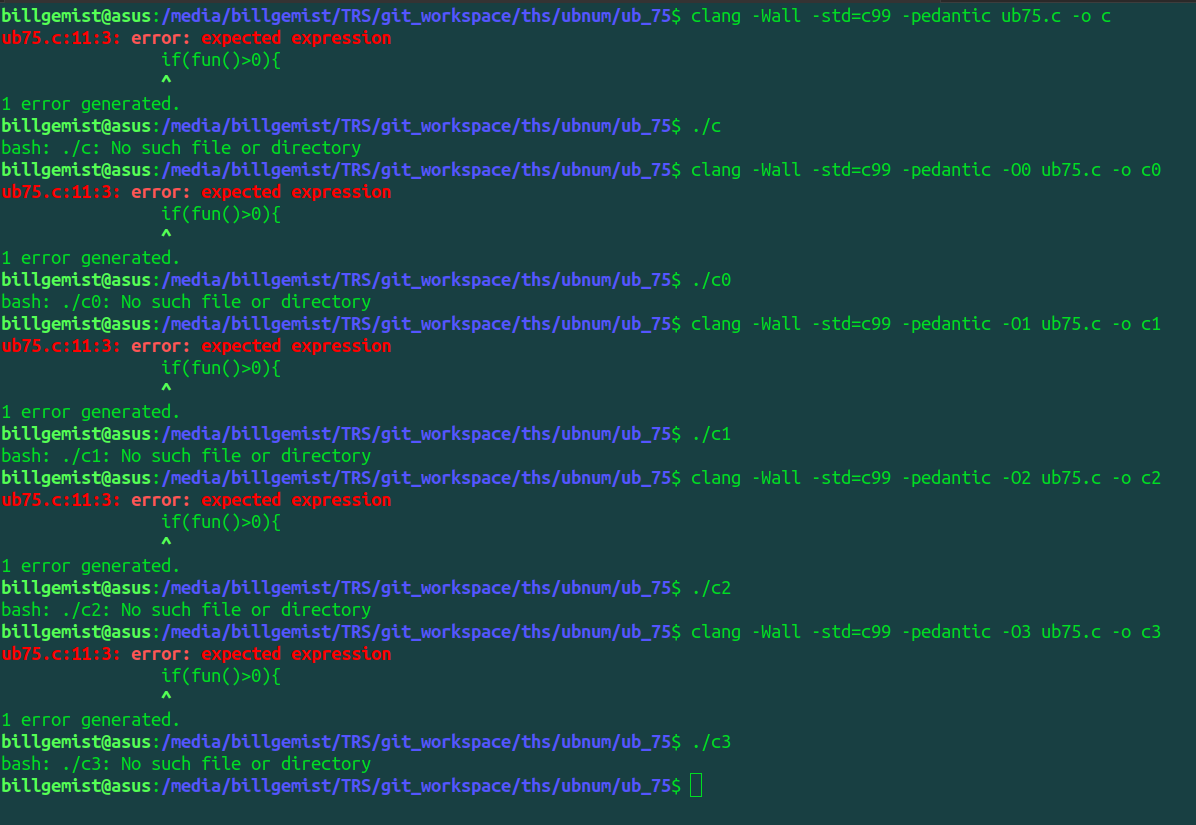
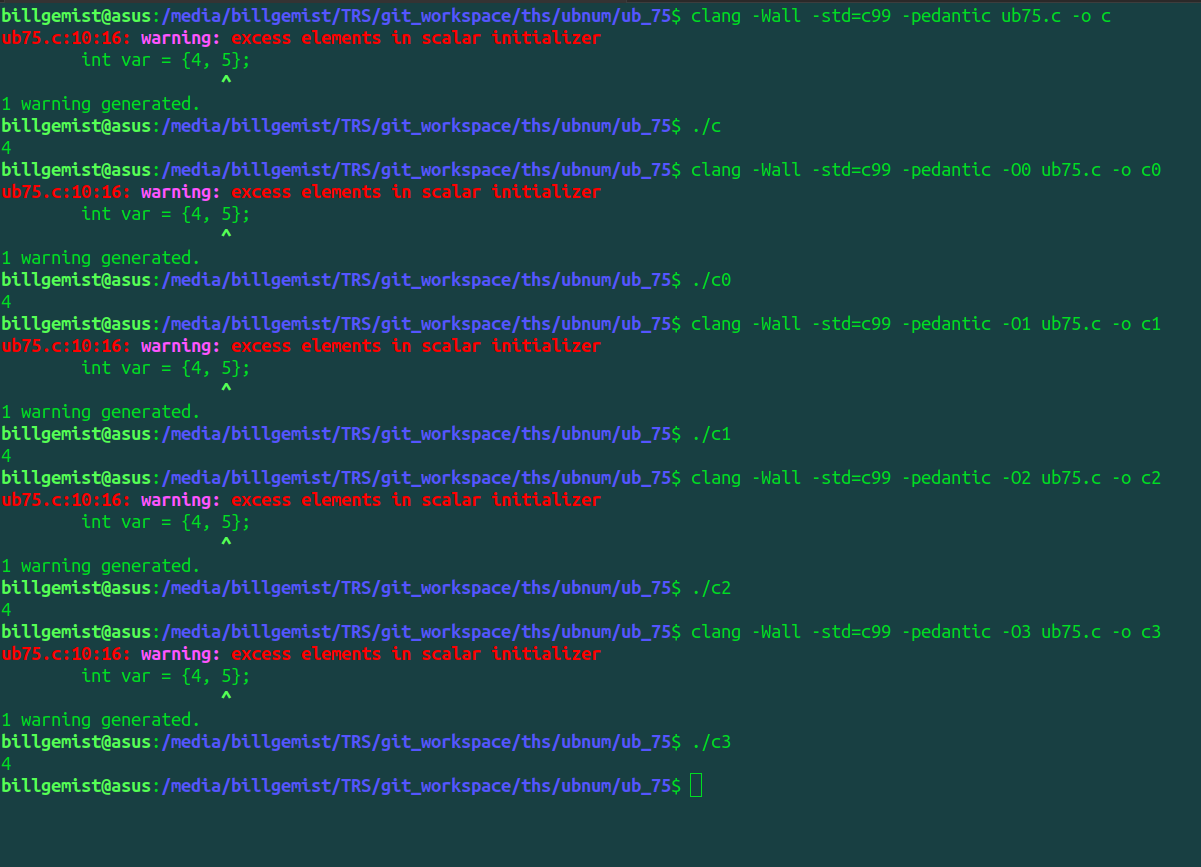
last commit of May 22nd

Changed region(s): [[0.0, 0.0, 0.99, 0.9697]]

diff --git a/ubnum/ub_10/ub10_4.c b/ubnum/ub_10/ub10_4.c
@@ -1,23 +1,24 @@
 //undefined behavior number 10
 #include <stdio.h>
-
+extern int is_prime(int num);
 int main(){
 
-  int N,M = 0;
+  int M = 5;
+  int N;
 
-  printf("M = %d\n", M);
-  printf("N = %d\n", N);
+  //printf("M = %d\n", M);
+  //printf("N = %d\n", N);
 
-  if(M == 0){
-    M = 1;
-    N = 6;
-    printf("inside 1st if, M = %d, N = %d\n", M, N);
+  if( is_prime(8)){
+    N = 10;
+    //printf("inside 1st if N = %d\n", N);
   }
 
-  if(M != 0){
-    int k;
-    printf("inside 2nd if, k = %d\n", k);
+  if(is_prime(8)){ //diaforo tou miden
+    //printf("second if. N = %d \n", N);
+    M = N;
   }
 
-  return 0;
+  return M;
 }
+

diff --git a/ubnum/ub_75/dokimastiko.c b/ubnum/ub_75/dokimastiko.c
@@ -1,0 +1,26 @@
+//undefined behavior number 75
+#include <stdio.h>
+
+int is_prime(int num)
+{
+     if (num <= 1) return 0;
+     if (num % 2 == 0 && num > 2) return 0;
+     for(int i = 3; i < num / 2; i+= 2)
+     {
+         if (num % i == 0)
+             return 0;
+     }
+     return 1;
+}
+
+
+int main(){
+
+	printf("%d\n",is_prime(7));
+
+
+	return 0;
+
+}
+
+

diff --git a/ubnum/ub_83/ub83.c b/ubnum/ub_83/ub83.c
@@ -1,4 +1,5 @@
 //undefined behavior number 83
+/*https://docs.microsoft.com/en-us/cpp/c-language/incomplete-types?view=vs-2019*/
 #include <stdio.h>
 
 int main(){
@@ -16,3 +17,4 @@ extern int i3 = 3;		   //definition, external linkage
 int i4;					   //tentative definition, external linkage 
 static int i5;				//tentative definition, internal linkage
 */
+

diff --git a/ubnum/ub_10/ub10_4_prime.c b/ubnum/ub_10/ub10_4_prime.c
@@ -1,0 +1,14 @@
+//undefined behavior number 10
+#include <stdio.h>
+
+int is_prime(int num)
+{
+     if (num <= 1) return 0;
+     if (num % 2 == 0 && num > 2) return 0;
+     for(int i = 3; i < num / 2; i+= 2)
+     {
+         if (num % i == 0)
+             return 0;
+     }
+     return 1;
+}

diff --git a/ubnum/ub_55/ub55.c b/ubnum/ub_55/ub55.c
@@ -5,13 +5,12 @@ a pointer to an lvalue designating an object of static
 storage duration*/
 int main(){
 	
-	static int a = 10;
+	int a[5];
 
-	int *ptr = &a;
-
-	int b = *ptr;
-
-	printf("b: %d\n", b);
+	a[2] = 6;
+	3[a] = 7; 
     
+	printf("%d\n", a[3]);
+
 	return 0;
 }

diff --git a/ubnum/ub_63/ub63_1.c b/ubnum/ub_63/ub63_1.c
@@ -1,7 +1,7 @@
 //undefined behavior number 63
 #include <stdio.h>
 
-const int fun (int a, int b){
+int volatile fun (int a, int b){
 	int sum = a + b;
 	return sum;
 }

diff --git a/ubnum/ub_75/ub75.c b/ubnum/ub_75/ub75.c
@@ -7,14 +7,7 @@ int fun (){
 
 
 int main(){
-	int var = {
-		if(fun()>0){
-			3;
-		}
-		else{
-			4;
-		}
-	};
+	int var = {4, 5};
 
 	printf("%d\n", var);
 

diff --git a/ubnum/ub_105/ub105.c b/ubnum/ub_105/ub105.c
@@ -24,3 +24,4 @@ int main () {
 
 	return(0);
 }
+
